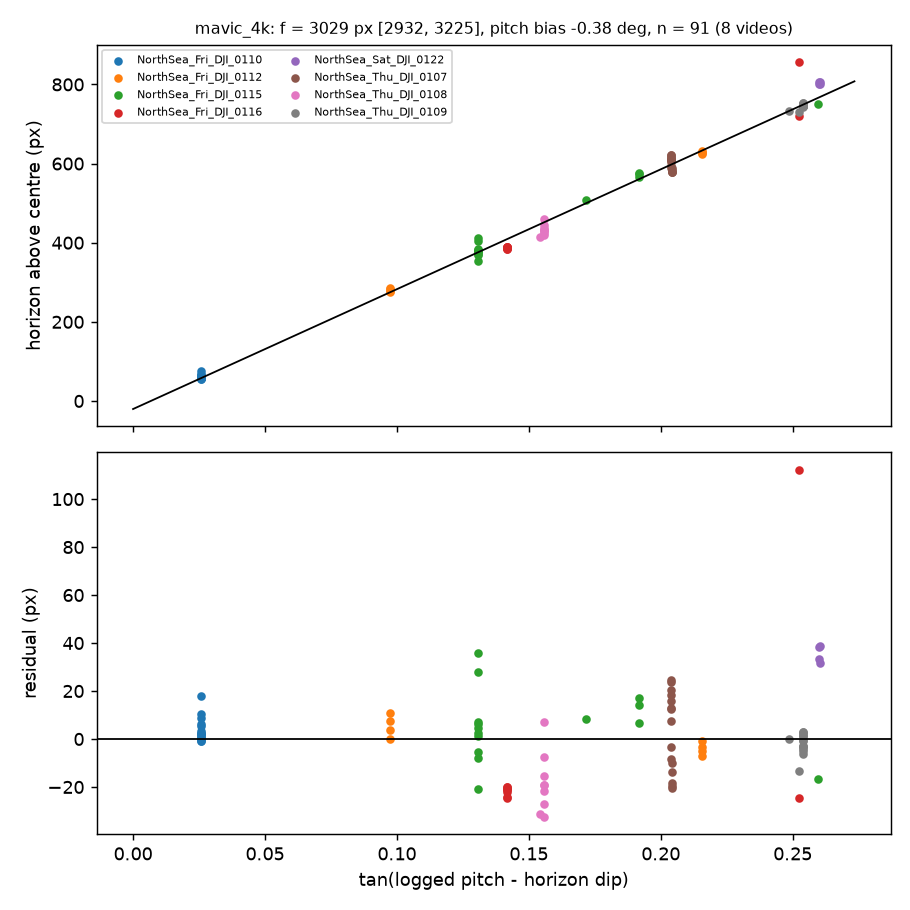
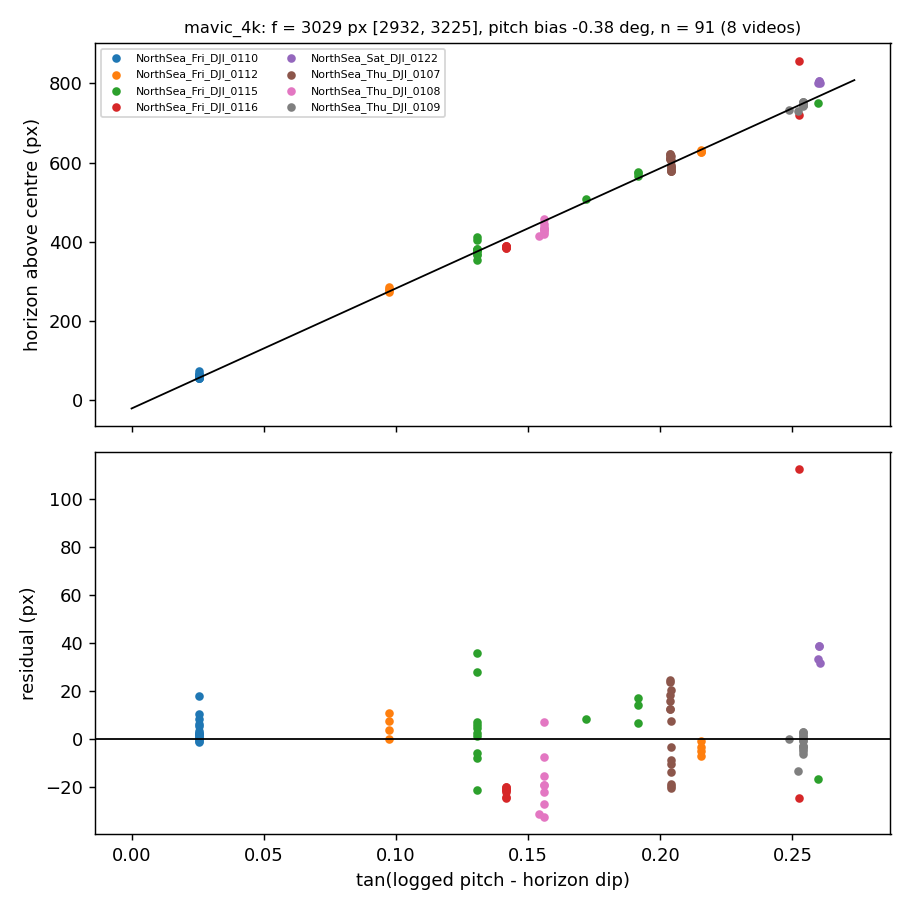
Pilot option for make-views; regenerate the horizon-fit figure with matplotlib 3.10

diff --git a/scripts/make_views.py b/scripts/make_views.py
@@ -143,7 +143,7 @@ def render_frame(task: Task) -> tuple[int, list[ViewRecord]]:
 def main(argv: Sequence[str] | None = None) -> None:
     parser = argparse.ArgumentParser(description="Render training and validation views.")
     parser.add_argument("--config", type=Path, default=Path("configs/detector/default.yaml"))
-    parser.add_argument("--limit", type=int, default=None, help="first N frames only (smoke test)")
+    parser.add_argument("--every", type=int, default=1, help="every Nth frame only (pilot runs)")
     parser.add_argument("--workers", type=int, default=os.cpu_count() or 1)
     parser.add_argument("overrides", nargs="*", help="config overrides, dotted.key=value")
     args = parser.parse_args(argv)
@@ -164,8 +164,7 @@ def main(argv: Sequence[str] | None = None) -> None:
         return "val" if row.session_id in cfg.internal_val_sessions else "train"
 
     chosen = [(f, s) for f in sorted(frames, key=lambda f: f.image_id) if (s := subset(f))]
-    if args.limit is not None:
-        chosen = chosen[: args.limit]
+    chosen = chosen[:: args.every]
 
     yolo_dir = cfg.views_dir / "yolo"
     for kind in ("images", "labels"):
